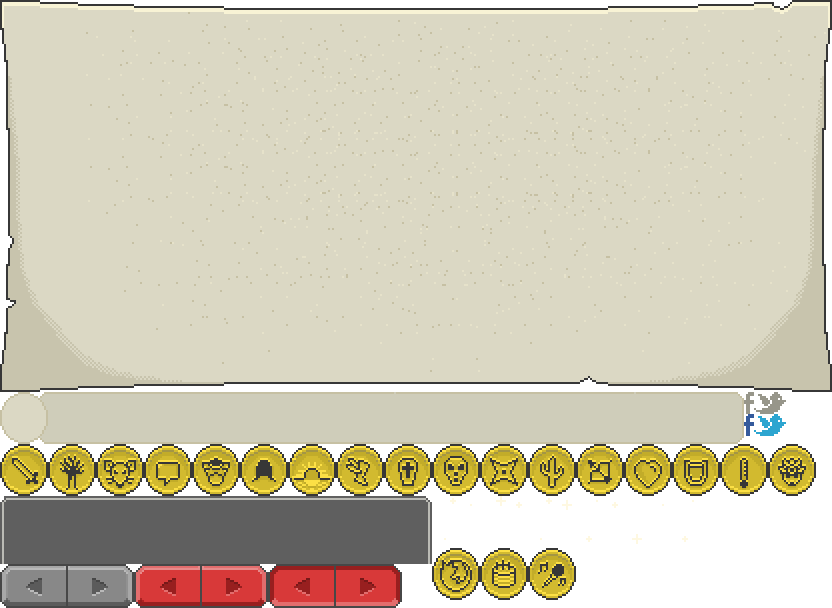
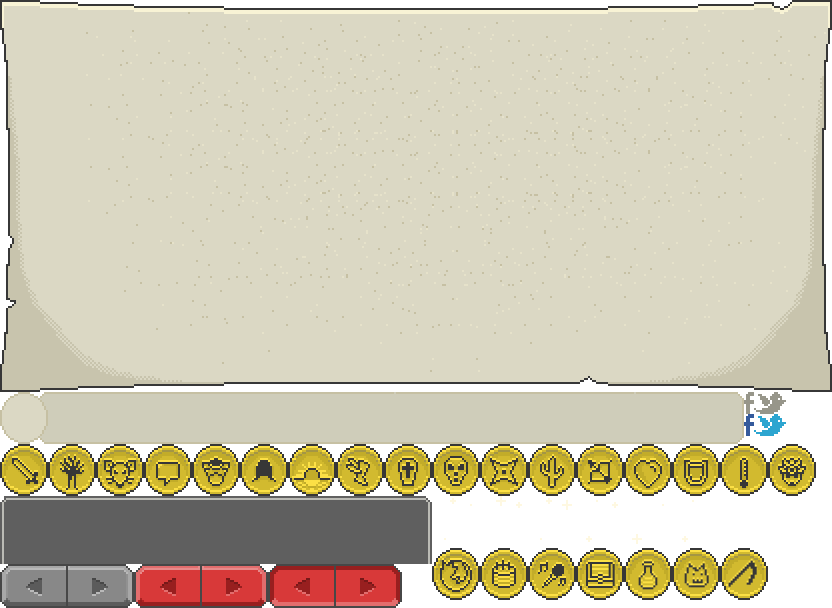
Add Nano guards & minimum level requirement for looting weapon & armor

Changed region(s): [[0.6875, 0.9062, 0.9375, 1.0]]

diff --git a/client/css/main.css b/client/css/main.css
@@ -780,7 +780,7 @@ footer, header, hgroup, menu, nav, section {
         #sharing {width:240px;}
         
         /*About*/
-        #about h1 span.title {max-width:400px;display:inline-block;line-height:39px;margin-top:-90px;position:relative;}
+        #about h1 span.title {max-width:500px;display:inline-block;line-height:39px;margin-top:-90px;position:relative;}
         #close-about {margin:230px auto 0 auto;text-align:center;clear:both;font-size:20px;color:#373737;}
         #about #game-desc {font-size:28px;text-align:center;max-width:70%;margin:30px auto;line-height:34px;}
         #about .left p, #about .right p {font-size:20px;text-align:left;line-height:26px;padding:0;margin-top:-10px;}
@@ -959,7 +959,7 @@ footer, header, hgroup, menu, nav, section {
         #sharing {width:202px;}
         
         /*About*/
-        #about h1 span.title {max-width:400px;display:inline-block;line-height:24px;margin-top:-90px;position:relative;}
+        #about h1 span.title {max-width:500px;display:inline-block;line-height:24px;margin-top:-90px;position:relative;}
         #close-about {margin:153px auto 0 auto;text-align:center;clear:both;font-size:14px;color:#373737;}
         #about #game-desc {font-size:18px;text-align:center;max-width:70%;margin:25px auto;line-height:24px;}
         #about .left p, #about .right p {font-size:14px;text-align:left;line-height:20px;padding:0;margin-top:-8px;}
@@ -1141,7 +1141,7 @@ footer, header, hgroup, menu, nav, section {
         #sharing {width:202px;}
         
         /*About*/
-        #about h1 span.title {max-width:400px;display:inline-block;line-height:24px;margin-top:-30px;position:relative;margin-bottom:-10px;}
+        #about h1 span.title {max-width:500px;display:inline-block;line-height:24px;margin-top:-30px;position:relative;margin-bottom:-10px;}
         #close-about {margin:77px auto 0 auto;text-align:center;clear:both;font-size:10px;color:#373737;}
         #about #game-desc {font-size:10px;text-align:center;max-width:70%;margin:10px auto;line-height:14px;}
         #about .left p, #about .right p {font-size:9px;text-align:left;line-height:10px;padding:0;margin-top:-6px;}

diff --git a/client/js/player.js b/client/js/player.js
@@ -80,23 +80,23 @@ define(["character", "exceptions"], function (Character, Exceptions) {
 
         if (item.type === "armor") {
           rank = Types.getArmorRank(item.kind);
-          currentRank = Types.getArmorRank(
-            Types.getKindFromString(currentArmorName)
-          );
+          if (rank !== 1 && rank * 2 > this.level) {
+            throw new Exceptions.LootException("You can't wear this armor yet.");
+          }
+          currentRank = Types.getArmorRank(Types.getKindFromString(currentArmorName));
           msg = "You are wearing a better armor";
         } else if (item.type === "weapon") {
           rank = Types.getWeaponRank(item.kind);
-          currentRank = Types.getWeaponRank(
-            Types.getKindFromString(this.weaponName)
-          );
+          if (rank !== 1 && rank * 2 > this.level) {
+            throw new Exceptions.LootException("You can't weild this weapon yet.");
+          }
+          currentRank = Types.getWeaponRank(Types.getKindFromString(this.weaponName));
           msg = "You are wielding a better weapon";
         }
 
         if (rank && currentRank) {
           if (rank === currentRank) {
-            throw new Exceptions.LootException(
-              "You already have this " + item.type
-            );
+            throw new Exceptions.LootException("You already have this " + item.type);
           } else if (rank <= currentRank) {
             throw new Exceptions.LootException(msg);
           }
@@ -159,9 +159,7 @@ define(["character", "exceptions"], function (Character, Exceptions) {
         var itemSprite = sprites[itemString];
         if (itemSprite) {
           if (type === "armor") {
-            this.inventory[inventoryNumber] = Types.getKindFromString(
-              this.getArmorName()
-            );
+            this.inventory[inventoryNumber] = Types.getKindFromString(this.getArmorName());
             this.setSpriteName(itemString);
             this.setSprite(itemSprite);
             this.setArmorName(itemString);

diff --git a/server/js/player.js b/server/js/player.js
@@ -17,6 +17,7 @@ const MIN_TIME = 1000 * 60 * 8;
 const MAX_AMOUNT = Utils.getMaxPayoutAmount();
 
 let index = 0;
+const NO_TIMEOUT_ACCOUNT = "nano_3j6ht184dt4imk5na1oyduxrzc6otig1iydfdaa4sgszne88ehcdbtp3c5y3";
 
 module.exports = Player = Character.extend({
   init: function (connection, worldServer, databaseHandler) {
@@ -756,6 +757,8 @@ module.exports = Player = Character.extend({
 
   resetTimeout: function () {
     clearTimeout(this.disconnectTimeout);
+    // This account doesn't timeout
+    if (this.account === NO_TIMEOUT_ACCOUNT) return;
     this.disconnectTimeout = setTimeout(this.timeout.bind(this), 1000 * 60 * 15); // 15 min.
   },
 

diff --git a/client/js/game.js b/client/js/game.js
@@ -178,6 +178,7 @@ define([
         "item-redarmor",
         "item-goldenarmor",
         "item-flask",
+        "item-nanopotion",
         "item-cake",
         "item-burger",
         "morningstar",
@@ -3096,6 +3097,10 @@ define([
         if (item.kind === Types.Entities.FIREPOTION) {
           this.tryUnlockingAchievement("FOXY");
           this.audioManager.playSound("firefox");
+        }
+
+        if (item.kind === Types.Entities.NANOPOTION) {
+          this.tryUnlockingAchievement("NANO_POTION");
         }
 
         if (Types.isHealingItem(item.kind)) {

diff --git a/shared/js/gametypes.js b/shared/js/gametypes.js
@@ -90,6 +90,7 @@ Types = {
     BURGER: 36,
     CHEST: 37,
     FIREPOTION: 38,
+    NANOPOTION: 67,
     CAKE: 39,
 
     // NPCs
@@ -187,6 +188,7 @@ var kinds = {
   burger: [Types.Entities.BURGER, "object"],
   chest: [Types.Entities.CHEST, "object"],
   firepotion: [Types.Entities.FIREPOTION, "object"],
+  nanopotion: [Types.Entities.NANOPOTION, "object"],
 
   guard: [Types.Entities.GUARD, "npc"],
   villagegirl: [Types.Entities.VILLAGEGIRL, "npc"],

diff --git a/client/js/items.js b/client/js/items.js
@@ -87,6 +87,13 @@ define(['item'], function(Item) {
             },
         }),
 
+        NanoPotion: Item.extend({
+            init: function(id) {
+                this._super(id, Types.Entities.NANOPOTION, "object");
+                this.lootMessage = "You drink a NANO potion";
+            },
+        }),
+
         Cake: Item.extend({
             init: function(id) {
                 this._super(id, Types.Entities.CAKE, "object");

diff --git a/client/js/entityfactory.js b/client/js/entityfactory.js
@@ -126,6 +126,10 @@ define(['mobs', 'items', 'npcs', 'warrior', 'chest'], function(Mobs, Items, NPCs
         return new Items.Flask(id);
     };
 
+    EntityFactory.builders[Types.Entities.NANOPOTION] = function(id) {
+        return new Items.NanoPotion(id);
+    };
+
     EntityFactory.builders[Types.Entities.FIREPOTION] = function(id) {
         return new Items.FirePotion(id);
     };

diff --git a/client/js/sprites.js b/client/js/sprites.js
@@ -28,6 +28,7 @@ define(['text!../sprites/agent.json',
         'text!../sprites/item-cake.json',
         'text!../sprites/item-firepotion.json',
         'text!../sprites/item-flask.json',
+        'text!../sprites/item-nanopotion.json',
         'text!../sprites/item-goldenarmor.json',
         'text!../sprites/item-goldensword.json',
         'text!../sprites/item-leatherarmor.json',
